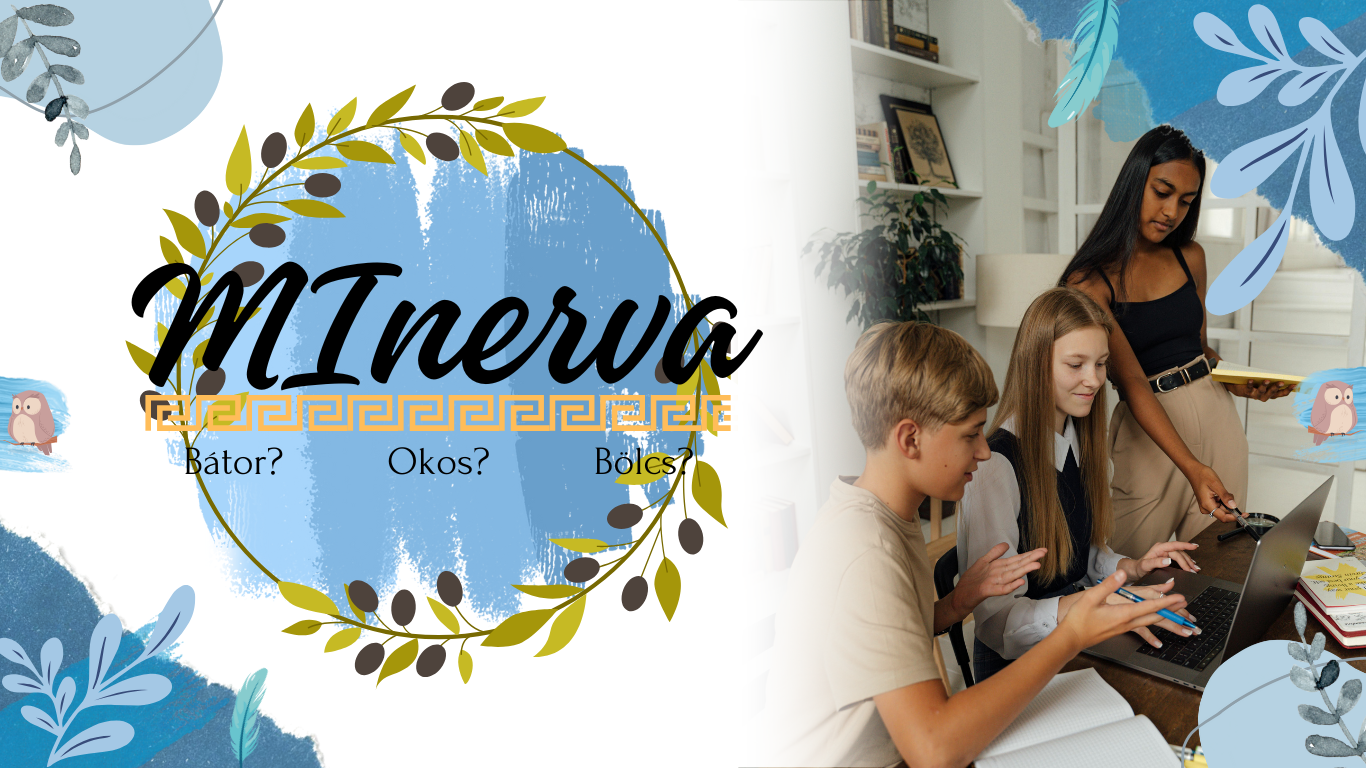
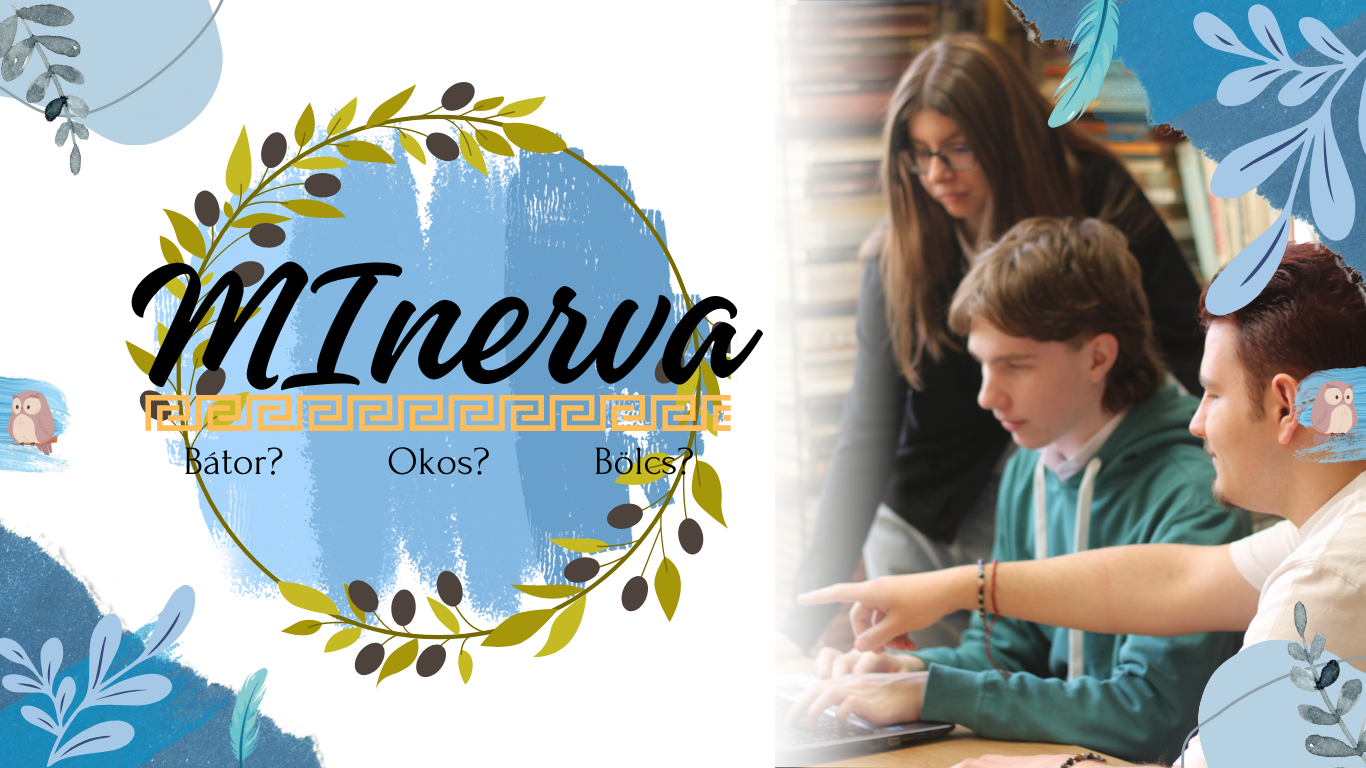
new images and carousel with css, updated about page

Changed region(s): [[0.5842, 0.0, 1.0, 1.0]]

diff --git a/frontend/src/pages/About.jsx b/frontend/src/pages/About.jsx
@@ -9,31 +9,31 @@ export default () => {
         <Container>
             <h2 className="mt-3">Készítők:</h2>
             <RightText 
-                img={"./assets/images/"} 
+                img={"./assets/images/about/1b.JPG"} 
                 name={"Berdó Tamás"} 
                 text1={"Tomi kiváló backend programozó, akinek a weboldal készítés a kisujjában van. Modern technikákkal dolgozik, mindig naprakész."} 
                 text2={"Imádja a macskákat és a programozást. Ő egy igazi „Code Cat”. :3"} 
                 text3={"Cicafiú 19 éves, programozó."}></RightText>
             <LeftText 
-                img={"./assets/images/"} 
+                img={"./assets/images/about/2b.JPG"} 
                 name={"Füleki József"} 
                 text1={"Józsi jó frontend programozó és kiváló rajzoló. Modern technikákkal dolgozik, mindig naprakész."} 
                 text2={"Imádja az animációkat. Távol áll tőle az informatika bonyolult világa, de a szíve lelkét beleadja."} 
                 text3={"Jósk 18 éves, rajzoló."}></LeftText>
             <RightText 
-                img={"./assets/images/"} 
+                img={"./assets/images/about/3b.JPG"} 
                 name={"Sartner Bettina"} 
                 text1={"Betti kiváló fotós, akinek a fényképezés a kisujjában van. Modern technikákkal dolgozik, mindig naprakész."} 
                 text2={"Imádja a kutyákat és a fényképezést. A programozás bár nem erőssége, de a szíve lelkét beleadja."} 
                 text3={"18 éves, fényképész."}></RightText>
             <h2 className="mt-3">Konzulens:</h2>
             <LeftText 
-                img={"./assets/images/"} 
+                img={"./assets/images/about/4b.JPG"} 
                 name={"Molnár Máté Norbert"} 
                 text1={"Komédiás 1 kiváló programozó és vicces tanár. Modern technikákkal dolgozik, mindig naprakész."} 
                 text2={"Imádja a programozást és a focit. Fontos számára, hogy diákjaival meg tudja szerettetni az informatikát és minél többen a szakmájukban dolgozzanak."} 
                 text3={"Máré 21 éves, tanár."}></LeftText>
-            <Image src="./assets/images/about/" alt="Közös kép"></Image>
+            <Image src="./assets/images/about/gang.jpg" alt="Közös kép" fluid></Image>
         </Container>
     );
 }

diff --git a/frontend/src/components/Carousel.jsx b/frontend/src/components/Carousel.jsx
@@ -17,6 +17,18 @@ export default () => {
         <Carousel.Item>
             <Image className="c-image" src="./assets/images/carousel/carousel4.png" alt="Negyedik kép" fluid />
         </Carousel.Item>
+        <Carousel.Item>
+            <Image className="c-image" src="./assets/images/carousel/carousel5.png" alt="Ötödik kép" fluid />
+        </Carousel.Item>
+        <Carousel.Item>
+            <Image className="c-image" src="./assets/images/carousel/carousel6.png" alt="Hatodik kép" fluid />
+        </Carousel.Item>
+        <Carousel.Item>
+            <Image className="c-image" src="./assets/images/carousel/carousel7.png" alt="Hetedik kép" fluid />
+        </Carousel.Item>
+        <Carousel.Item>
+            <Image className="c-image" src="./assets/images/carousel/carousel8.png" alt="Nyolcadik kép" fluid />
+        </Carousel.Item>
     </Carousel>
   );
 }

diff --git a/frontend/src/components/LeftText.jsx b/frontend/src/components/LeftText.jsx
@@ -2,15 +2,17 @@ import { Row, Col, Image } from "react-bootstrap";
 
 export default ({ img, name, text1, text2, text3 }) => {
     return (
-        <Row>
+        <Row className="mt-5 mb-5">
             <Col sx={12} md={6}>
                 <h3>{name}</h3>
                 <p>{text1}</p>
                 <p>{text2}</p>
                 <p>{text3}</p>
             </Col>
-            <Col sx={12} md={6}>
-                <Image src={img} alt={name} fluid></Image>
+            <Col sx={12} md={6} className="d-flex justify-content-center">
+                <div style={{ borderRadius: "50%", overflow: "hidden", width: "500px", height: "500px" }}>
+                    <Image src={img} alt={name} fluid style={{ height: "100%", width: "100%", objectFit: "cover" }} />
+                </div>
             </Col>
         </Row>
     );

diff --git a/frontend/src/components/RightText.jsx b/frontend/src/components/RightText.jsx
@@ -2,9 +2,11 @@ import { Row, Col, Image } from "react-bootstrap";
 
 export default ({ img, name, text1, text2, text3 }) => {
     return (
-        <Row>
-            <Col sx={12} md={6}>
-                <Image src={img} alt={name} fluid ></Image>
+        <Row className="mt-5 mb-5">
+            <Col sx={12} md={6} className="d-flex justify-content-center">
+                <div style={{ borderRadius: "50%", overflow: "hidden", width: "500px", height: "500px" }}>
+                    <Image src={img} alt={name} fluid style={{ height: "100%", width: "100%", objectFit: "cover" }} />
+                </div>
             </Col>
             <Col sx={12} md={6}>
                 <h3>{name}</h3>
